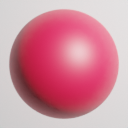
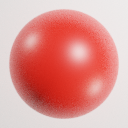
new assets

diff --git a/src/components/Board.tsx b/src/components/Board.tsx
@@ -62,8 +62,8 @@ export default function Board({}: Props) {
         return (
           <img
             onClick={() => handleClick(row, col)}
-            width="48"
-            height="48"
+            width="42"
+            height="42"
             key={key}
             className={clazz}
             src="red.png"
@@ -73,8 +73,8 @@ export default function Board({}: Props) {
         return (
           <img
             onClick={() => handleClick(row, col)}
-            width="48"
-            height="48"
+            width="42"
+            height="42"
             key={key}
             className={clazz}
             src="white.png"
@@ -84,8 +84,8 @@ export default function Board({}: Props) {
         return (
           <img
             onClick={() => handleClick(row, col)}
-            width="48"
-            height="48"
+            width="42"
+            height="42"
             key={key}
             className={clazz}
             src="blue.png"
@@ -95,8 +95,8 @@ export default function Board({}: Props) {
         return (
           <img
             onClick={() => handleClick(row, col)}
-            width="48"
-            height="48"
+            width="42"
+            height="42"
             key={key}
             className={clazz}
             src="empty.png"
@@ -117,14 +117,13 @@ export default function Board({}: Props) {
   const drawBoard = () => {
     return (
       <div className="mx-auto w-4/4 gap-0 my-4">
-        <div className="row w-1/2">
-          <div className="">{indices.map((row: number) => drawRow(row))}</div>
-        </div>
+        <div className="">{indices.map((row: number) => drawRow(row))}</div>
+
         {movesLeft >= 0 ? (
           <div className="row mx-0">
             {movesLeft === 0 || !movesLeft ? (
               <div>
-                <p className="font-bold">Game over</p>
+                <p className="font-bold text-xl">Game over</p>
                 <p className="font-bold">{`Moves: ${movesMade} / Best Move: ${bestMove} / Average: ${averageMove.toFixed(
                   2
                 )} / Coverage: ${getCoverage(board).toFixed(0)}%`}</p>
